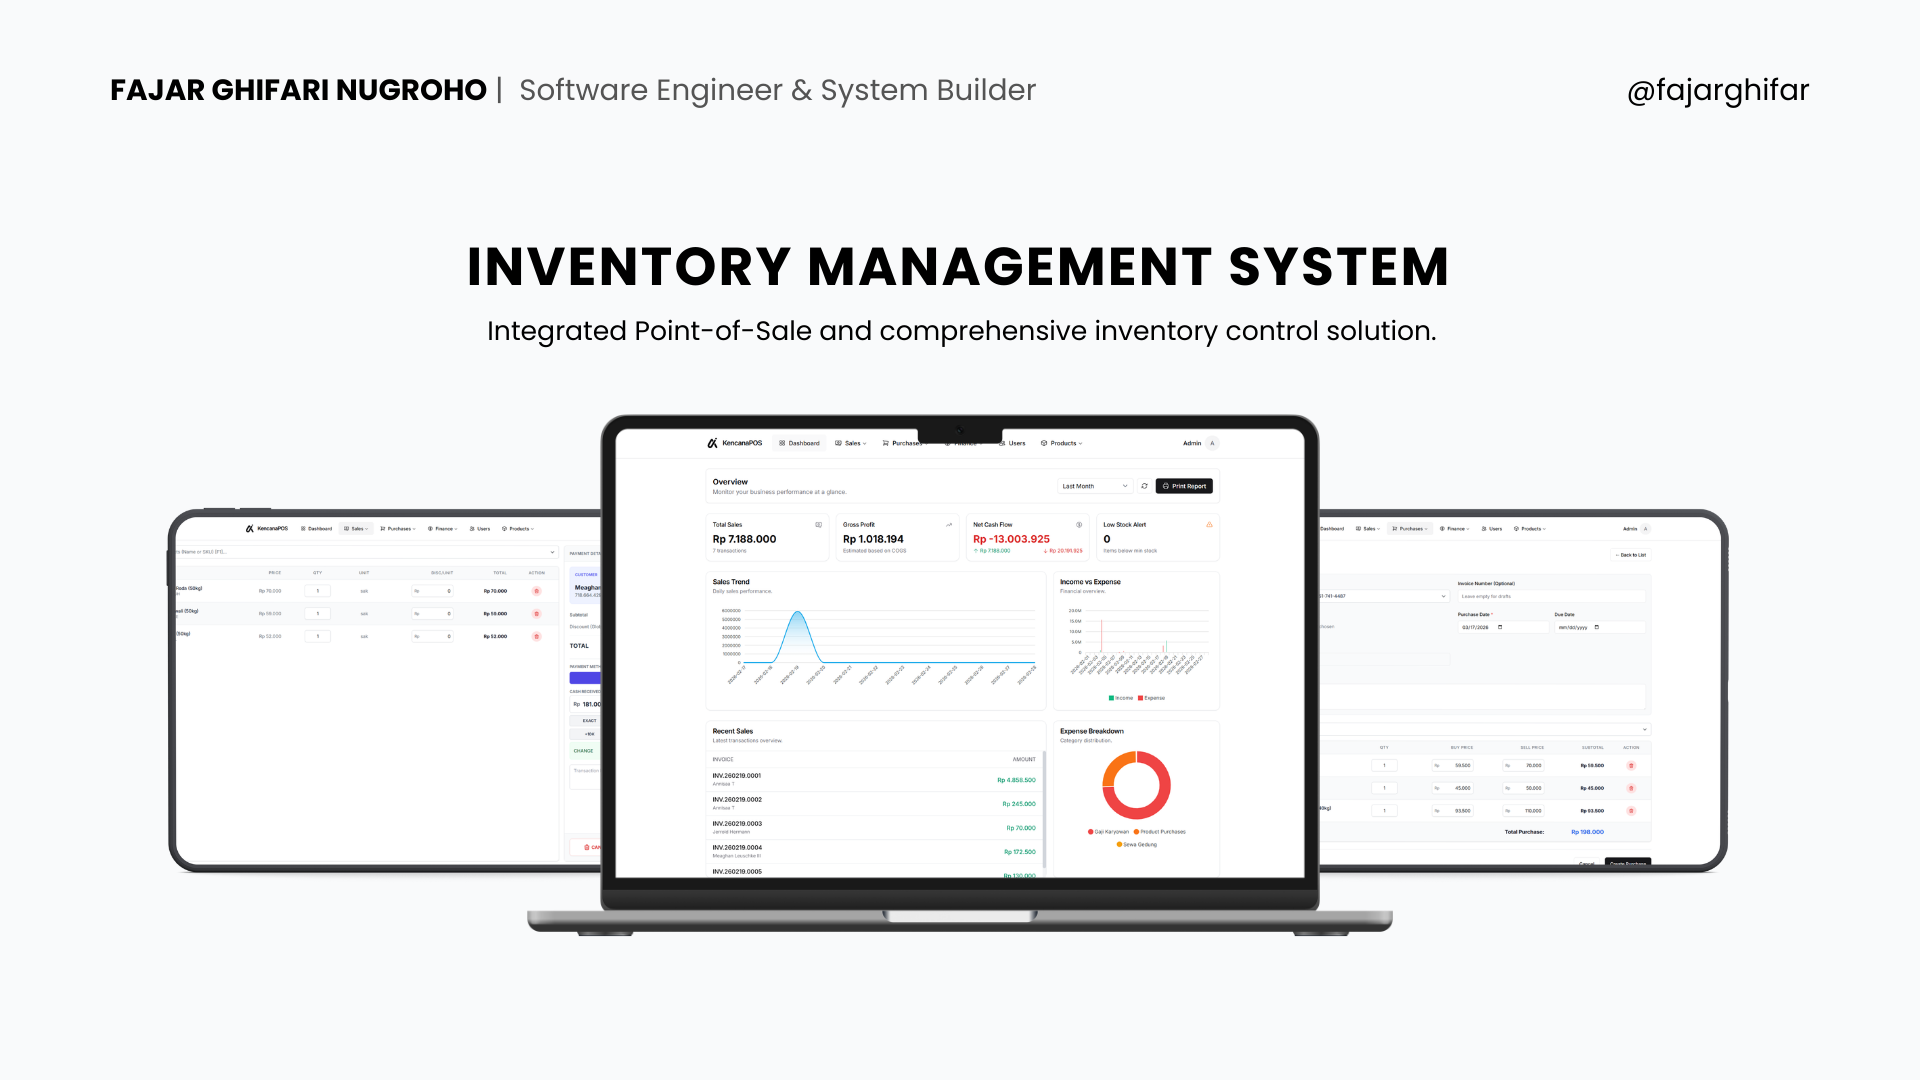
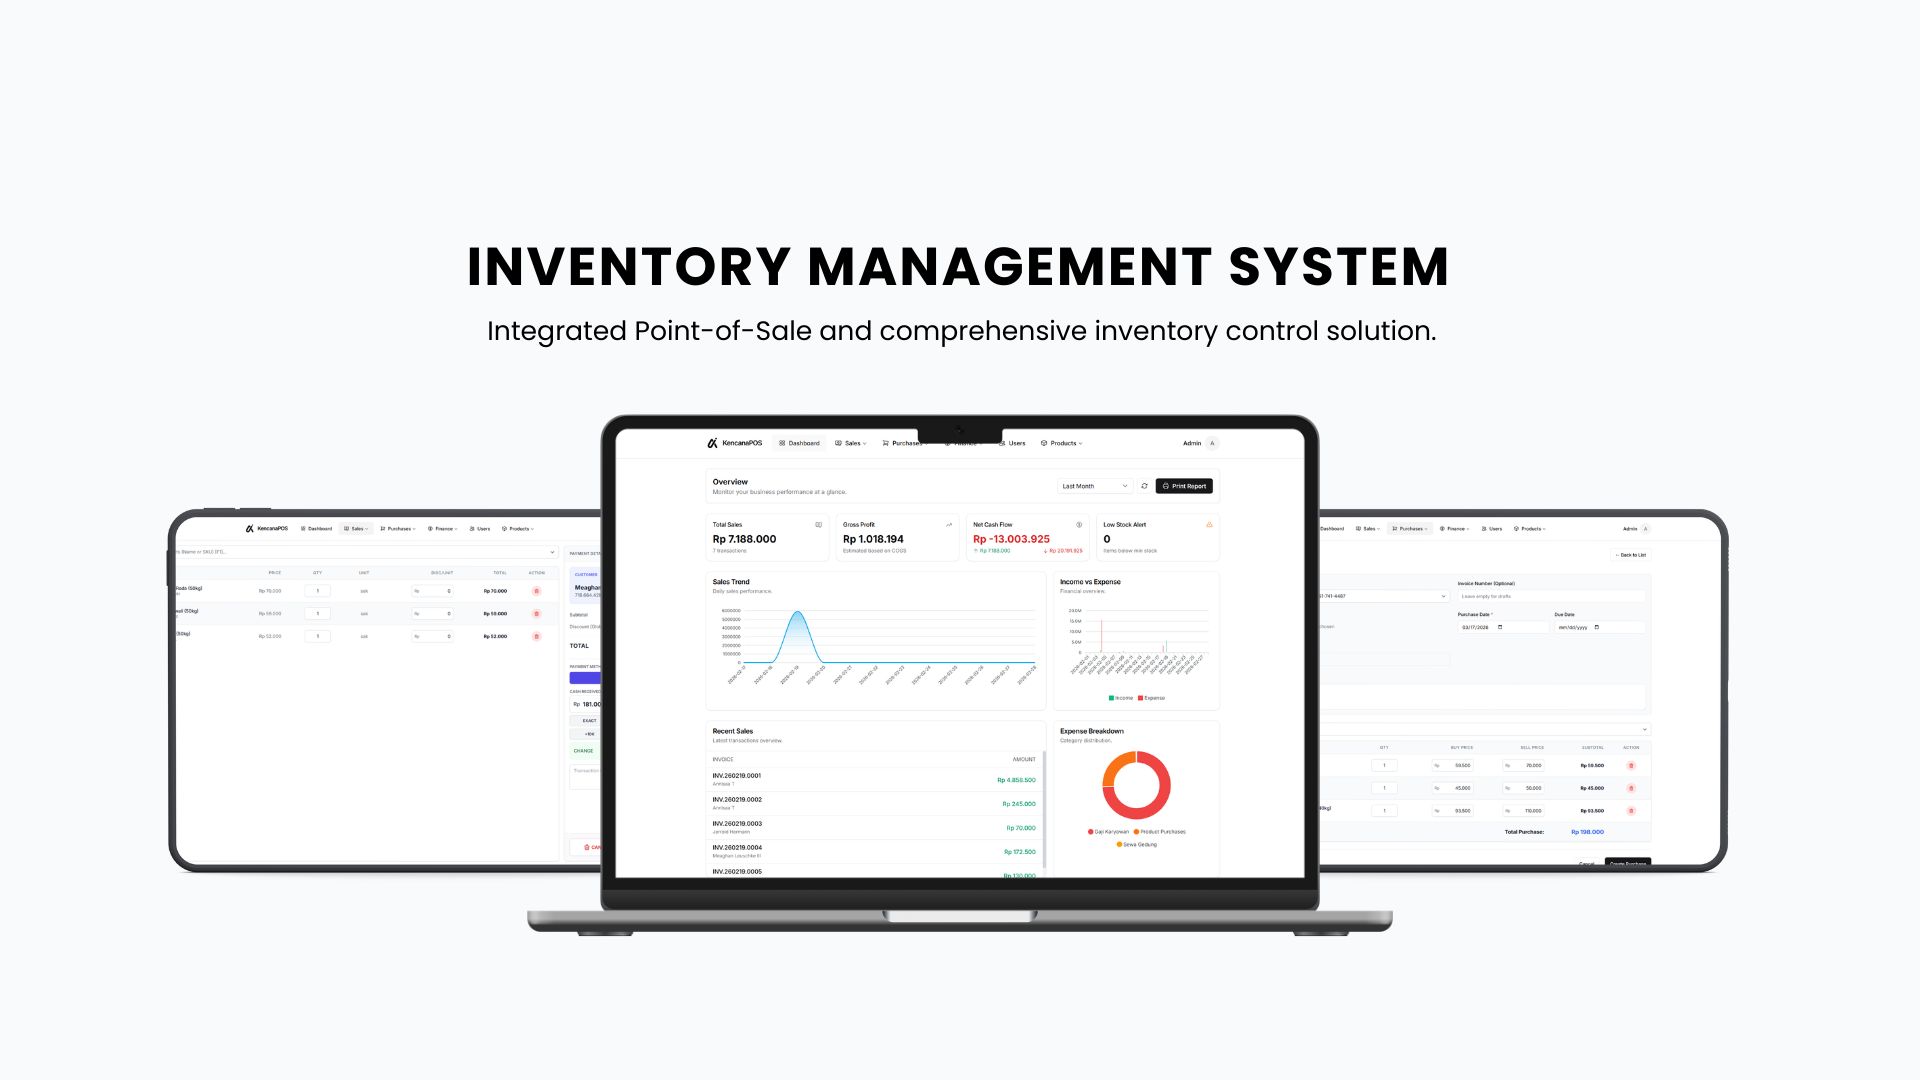
Fix

Changed region(s): [[0.0625, 0.0611, 0.5312, 0.0917], [0.8438, 0.0611, 0.9375, 0.0917]]

diff --git a/README.md b/README.md
@@ -125,7 +125,3 @@ Follow these steps to set up the project locally for development or testing.
 Have ideas to improve the system? Architecture enhancements, UI tweaks, or bug reports are welcome!
 - Submit a **Pull Request (PR)**
 - Create an **Issue** for feature requests or structural bugs
-
-## 📄 License
-
-Licensed under the [MIT License](LICENSE).